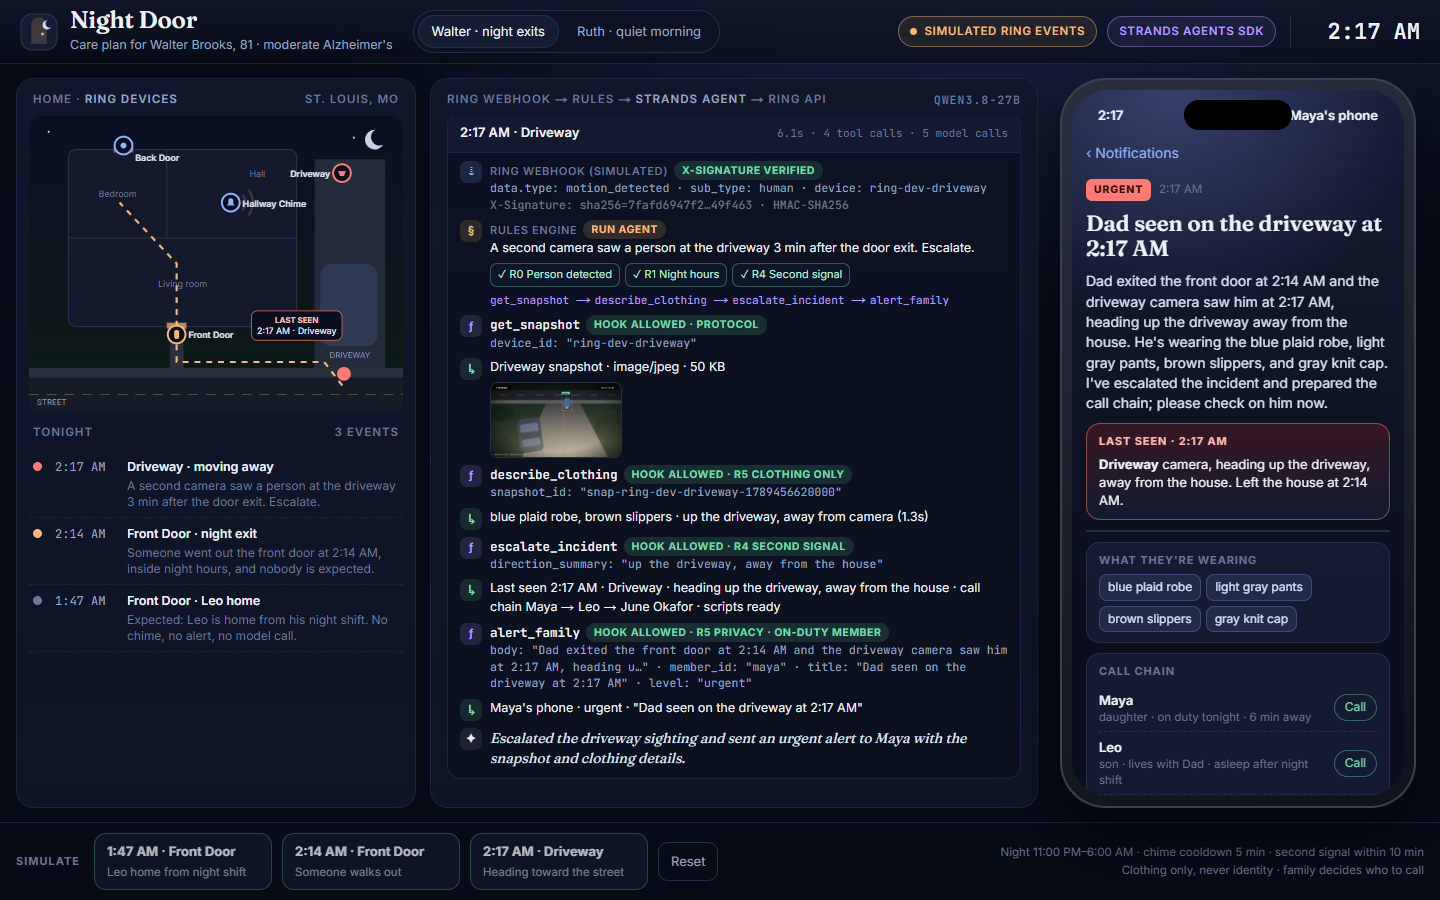
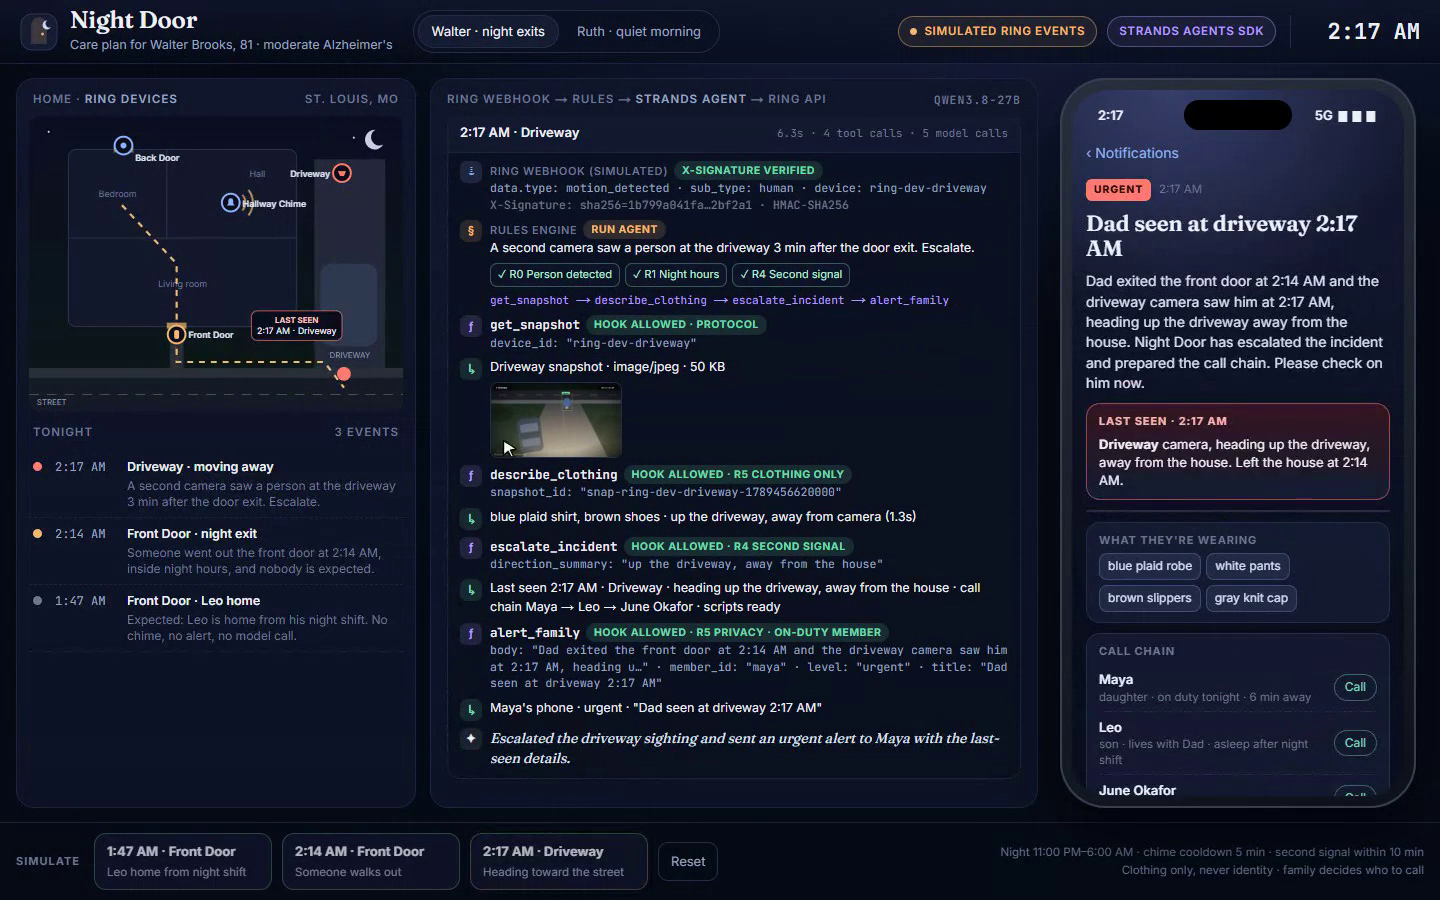
Refresh README screenshot, testing URL

diff --git a/docs/devpost-answers.md b/docs/devpost-answers.md
@@ -38,7 +38,7 @@ Ring Partner API: webhooks, `POST /v1/devices/{id}/media/image/download`, `POST 
 New.
 
 ## Testing instructions
-No login. Open the live demo. On "Walter · night exits", click the bottom buttons in order: 1:47 AM (expected arrival, stays quiet), 2:14 AM (night exit: watch the webhook verify, rule chips, each Strands tool call pass its hook, the Chime message and Maya's phone alert), 2:17 AM (driveway escalation: last-seen card, call chain and scripts; scroll the phone). Then tap "Found him. He's safe" on the phone. Switch to "Ruth · quiet morning" and run both steps. "Reset" starts over. Runs take about 3–8 s. Slides: /slides.html. Ring events are simulated (see README); live mode instructions are in docs/ring-live-checklist.md.
+No login. Open https://night-door.vercel.app. On "Walter · night exits", click the bottom buttons in order: 1:47 AM (expected arrival, stays quiet), 2:14 AM (night exit: watch the webhook verify, rule chips, each Strands tool call pass its hook, the Chime message and Maya's phone alert), 2:17 AM (driveway escalation: last-seen card, call chain and scripts; scroll the phone). Then tap "Found him. He's safe" on the phone. Switch to "Ruth · quiet morning" and run both steps. "Reset" starts over. Runs take about 3–8 s. Slides: /slides.html. Ring events are simulated (see README); live mode instructions are in docs/ring-live-checklist.md.
 
 ## AWS Builder: which AWS services did you incorporate and how?
 **Strands Agents SDK (TypeScript, `@strands-agents/sdk` 1.17).** It powers the whole agent in `lib/agent.ts`, running inside a Next.js route handler on Vercel:
